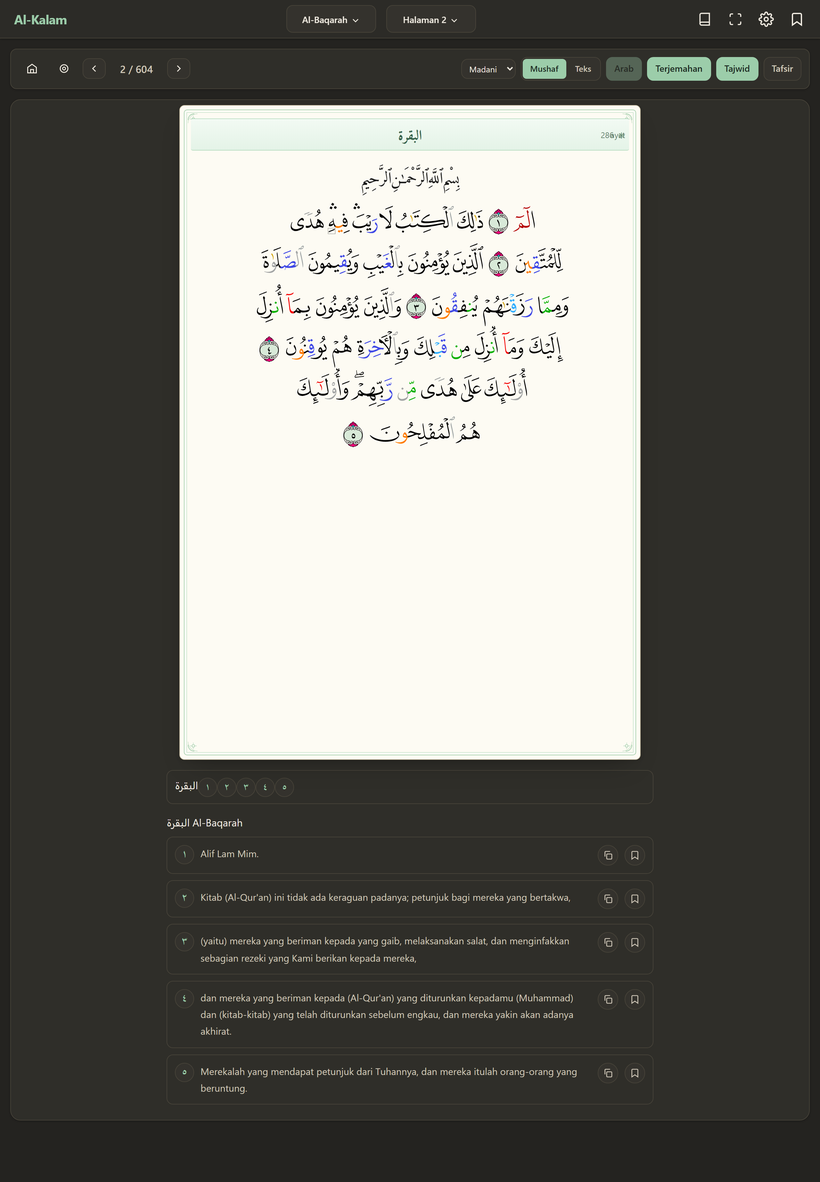
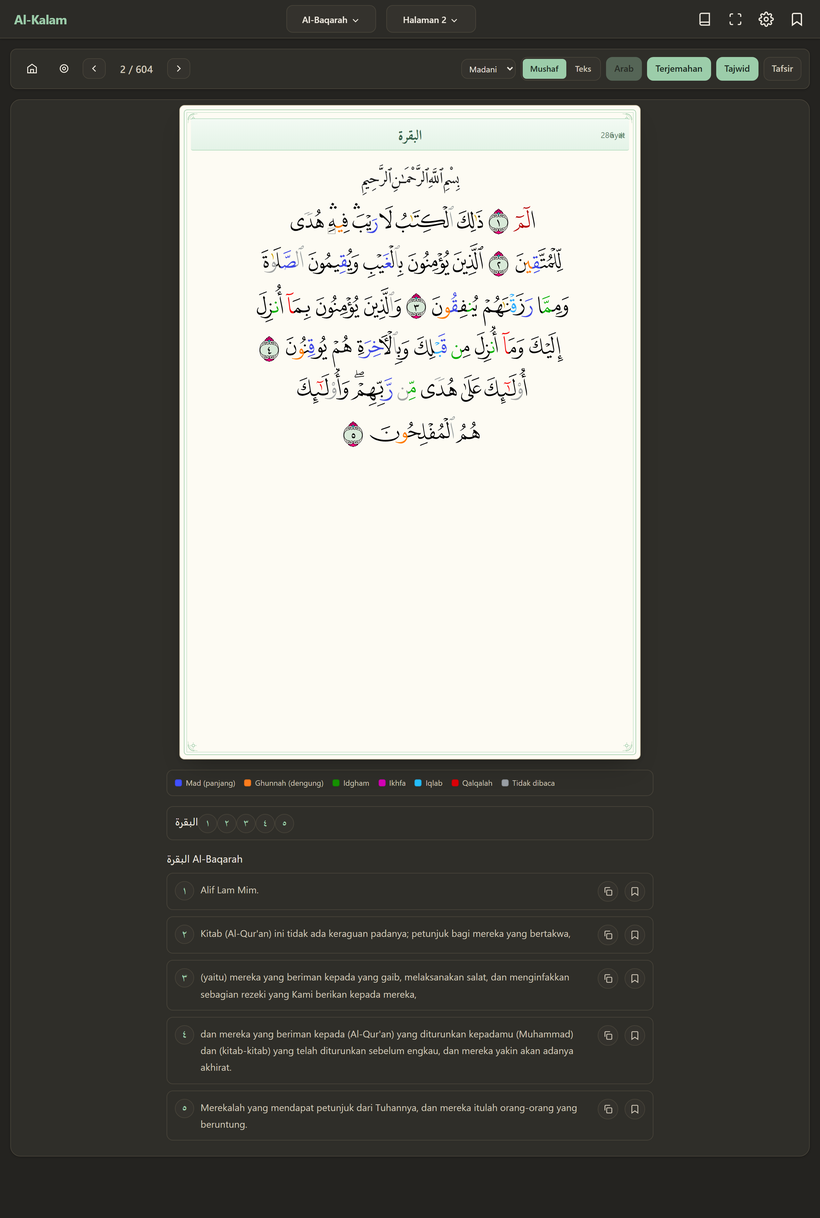
Legenda warna tajwid + tajwid IndoPak per kata
- Legenda 7 kelompok hukum (Mad, Ghunnah, Idgham, Ikhfa, Iqlab, Qalqalah,
  Tidak dibaca) dengan palet standar KFGQPC yang diambil dari warna font
  v4-tajweed; tampil di bawah halaman saat Tajwid aktif (mushaf maupun teks)
- IndoPak: karena tak ada font berwarna, aturan tajwid dipetakan per kata
  (dari tajwid.json.gz) lalu kata disorot dengan latar transparan; huruf
  tetap gelap agar terbaca
- Tombol Tajwid di IndoPak tidak lagi berpindah ke mode teks
- Dokumentasi: tangkapan layar tajwid Madani & IndoPak

diff --git a/js/app.js b/js/app.js
@@ -147,7 +147,7 @@
   }
   
   // ── Versi build (tanda bahwa browser memakai bundel terbaru) ────────
-  const BUILD = '2026-11-21-tajwid-page';
+  const BUILD = '2026-11-21-tajwid-legend';
 
   function showBuildTag() {
     const el = document.getElementById('buildTag');
@@ -332,6 +332,51 @@
     return state.bookmarks.has(verseKey);
   }
   
+  // ═══════════════════════════════════════════════════════════════
+  // Tajwid: grup warna (mengikuti standar KFGQPC / font v4-tajweed)
+  // ═══════════════════════════════════════════════════════════════
+  const TAJWID_GROUPS = [
+    ['mad', 'Mad (panjang)', ['madda_normal', 'madda_permissible', 'madda_obligatory', 'madda_necessary']],
+    ['ghunnah', 'Ghunnah (dengung)', ['ghunnah']],
+    ['idgham', 'Idgham', ['idgham_ghunnah', 'idgham_wo_ghunnah', 'idgham_shafawi', 'idgham_mutajanisayn', 'idgham_mutaqaribayn']],
+    ['ikhfa', 'Ikhfa', ['ikhafa', 'ikhafa_shafawi']],
+    ['iqlab', 'Iqlab', ['iqlab']],
+    ['qalqalah', 'Qalqalah', ['qalaqah']],
+    ['silent', 'Tidak dibaca', ['ham_wasl', 'slnt']],
+  ];
+
+  const RULE_TO_GROUP = (() => {
+    const map = {};
+    for (const [g, , rules] of TAJWID_GROUPS) for (const r of rules) map[r] = g;
+    return map;
+  })();
+
+  function tajwidLegendHtml() {
+    return TAJWID_GROUPS.map(([g, label]) =>
+      `<span class="tajwid-legend-item"><span class="tajwid-legend-dot ${g}"></span>${label}</span>`
+    ).join('');
+  }
+
+  const wordRuleCache = new Map();
+
+  /** Aturan tajwid dominan per kata sebuah ayat: hasil = array grup (indeks 1 = kata 1). */
+  async function wordRuleGroups(verseKey) {
+    if (wordRuleCache.has(verseKey)) return wordRuleCache.get(verseKey);
+    const all = await DataManager.load('tajwid');
+    const html = (all && all[verseKey]) || '';
+    if (!html) { wordRuleCache.set(verseKey, []); return []; }
+    // buang penanda nomor ayat, lalu pecah per kata
+    const clean = html.replace(/<span class=end>.*?<\/span>/g, '');
+    const words = clean.trim().split(/\s+/);
+    const out = [];
+    for (const w of words) {
+      const rule = (w.match(/class=\s*"?([a-z_]+)/i) || [, ''])[1];
+      out.push(RULE_TO_GROUP[rule] || null);
+    }
+    wordRuleCache.set(verseKey, out);
+    return out;
+  }
+
   // ═══════════════════════════════════════════════════════════════
   // Fitur: salin ayat, tajwid, sampul, layar penuh, tombol tengah
   // ═══════════════════════════════════════════════════════════════
@@ -807,6 +852,16 @@
     const versesData = await DataManager.load('verses');
     const tajweedPage = !!state.showTajwid && mushafKey() === 'madani';
     const fontFamily = await ensureMushafFont(page, tajweedPage);
+
+    // IndoPak tidak punya font berwarna → warnai per kata dengan data tajwid
+    const wordTintOn = !!state.showTajwid && mushafKey() === 'indopak';
+    const ruleByVerse = new Map();
+    if (wordTintOn) {
+      for (const v of pageData.verses) {
+        const vk = `${v.surah}:${v.ayah}`;
+        if (!ruleByVerse.has(vk)) ruleByVerse.set(vk, await wordRuleGroups(vk));
+      }
+    }
     prefetchPageFonts(page);
 
     const verses = pageData.verses
@@ -860,7 +915,13 @@
                 const ayahNo = vk.split(':')[1];
                 htm += `<span class="mw mw-end-badge" data-v="${vk}" data-w="${pos}">${toArabicDigits(Number(ayahNo))}</span>`;
               } else if (clean) {
-                htm += `<span class="mw" data-v="${vk}" data-w="${pos}">${clean}</span> `;
+                let tint = '';
+                if (wordTintOn) {
+                  const rules = ruleByVerse.get(vk) || [];
+                  const g = rules[pos - 1];
+                  if (g) tint = ` taj-${g}`;
+                }
+                htm += `<span class="mw${tint}" data-v="${vk}" data-w="${pos}">${clean}</span> `;
               }
             } else {
               htm += `<span class="mw${isEnd ? ' mw-end' : ''}" data-v="${vk}" data-w="${pos}">${glyph}</span> `;
@@ -882,6 +943,11 @@
             `<span class="page-corner bl"></span><span class="page-corner br"></span>` +
             `</div>`;
     html += `<div class="mushaf-page-lines"${style}>${htm}</div></div>`;
+
+    // legenda warna tajwid (tampil saat tajwid aktif)
+    if (state.showTajwid) {
+      html += `<div class="tajwid-legend" aria-label="Legenda warna tajwid">${tajwidLegendHtml()}</div>`;
+    }
 
     // strip nomor ayat
     html += `<div class="scan-bar">`;
@@ -1064,6 +1130,9 @@
       }
       
       html += `</div>`;
+      if (state.showTajwid) {
+        html += `<div class="tajwid-legend" aria-label="Legenda warna tajwid">${tajwidLegendHtml()}</div>`;
+      }
       els.mushafContainer.innerHTML = html;
       
       // Attach event listeners
@@ -1860,14 +1929,10 @@
       els.toggleTajwid.setAttribute('aria-pressed', state.showTajwid);
       saveSettings();
 
-      if (state.showTajwid) {
-        if (state.pageMode === 'scan' && mushafKey() === 'madani') {
-          showToast('Tajwid berwarna aktif di halaman mushaf');
-        } else if (state.pageMode === 'scan') {
-          // IndoPak belum punya font berwarna → pakai mode teks
-          setPageMode('text', false);
-          showToast('IndoPak belum punya font berwarna — beralih ke mode Teks');
-        }
+      if (state.showTajwid && state.pageMode === 'scan') {
+        showToast(mushafKey() === 'madani'
+          ? 'Tajwid berwarna aktif di halaman mushaf'
+          : 'Tajwid IndoPak: kata diwarnai menurut hukumnya');
       }
       renderPage(state.currentPage);
     });

diff --git a/css/style.css b/css/style.css
@@ -995,3 +995,52 @@ body.is-fullscreen .app-main { margin-top: 0; }
 [data-theme="dark"] .mode-btn.active,
 [data-theme="dark"] .chip.active,
 [data-theme="dark"] .view-nav-btn.primary { color: #1d2a22; }
+
+/* ═══════════════════════════════════════════════════════════════════════
+   Tajwid: legenda warna + pewarnaan kata (IndoPak)
+   Palet mengikuti standar KFGQPC (sama dengan font v4-tajweed)
+════════════════════════════════════════════════════════════════════════ */
+:root {
+  --taj-mad: #4050ff;
+  --taj-ghunnah: #ff7e1e;
+  --taj-idgham: #169200;
+  --taj-ikhfa: #d500b7;
+  --taj-iqlab: #26bffd;
+  --taj-qalqalah: #dd0008;
+  --taj-silent: #9aa0a6;
+  --taj-tafkhim: #7c5cff;
+}
+
+.tajwid-legend {
+  width: min(100%, 760px);
+  display: flex; flex-wrap: wrap; gap: 6px 14px;
+  padding: 10px 12px;
+  background: var(--bg-card);
+  border: 1px solid var(--border-color);
+  border-radius: var(--radius-md);
+  font-size: .75rem;
+  color: var(--text-secondary);
+}
+.tajwid-legend[hidden] { display: none; }
+.tajwid-legend-item { display: inline-flex; align-items: center; gap: 6px; white-space: nowrap; }
+.tajwid-legend-dot {
+  width: 11px; height: 11px; border-radius: 3px; flex: 0 0 auto;
+  box-shadow: inset 0 0 0 1px rgba(0,0,0,.12);
+}
+.tajwid-legend-dot.mad { background: var(--taj-mad); }
+.tajwid-legend-dot.ghunnah { background: var(--taj-ghunnah); }
+.tajwid-legend-dot.idgham { background: var(--taj-idgham); }
+.tajwid-legend-dot.ikhfa { background: var(--taj-ikhfa); }
+.tajwid-legend-dot.iqlab { background: var(--taj-iqlab); }
+.tajwid-legend-dot.qalqalah { background: var(--taj-qalqalah); }
+.tajwid-legend-dot.silent { background: var(--taj-silent); }
+
+/* kata bertajwid pada halaman (dipakai IndoPak yang tak punya font berwarna) */
+/* IndoPak: hanya sorotan latar, huruf tetap hitam agar mudah dibaca */
+.mw.taj-mad { background: rgba(64, 80, 255, .18); }
+.mw.taj-ghunnah { background: rgba(255, 126, 30, .24); }
+.mw.taj-idgham { background: rgba(22, 146, 0, .20); }
+.mw.taj-ikhfa { background: rgba(213, 0, 183, .16); }
+.mw.taj-iqlab { background: rgba(38, 191, 253, .22); }
+.mw.taj-qalqalah { background: rgba(221, 0, 8, .16); }
+.mw.taj-silent { background: rgba(154, 160, 166, .20); }

diff --git a/sw.js b/sw.js
@@ -2,9 +2,9 @@
  * Al-Kalam Digital — Service Worker
  * Offline-first untuk halaman mushaf & data JSON
  */
-const CACHE_NAME = 'alkalam-v12';
+const CACHE_NAME = 'alkalam-v13';
 const DATA_CACHE = 'alkalam-data-v3';
-const PAGE_CACHE = 'alkalam-pages-v12';
+const PAGE_CACHE = 'alkalam-pages-v13';
 const IMG_CACHE = 'alkalam-page-images-v2';
 
 // File yang di-cache saat install (app shell)

diff --git a/README.md b/README.md
@@ -24,9 +24,13 @@ browser dari data layout + font (Madani QCF per halaman, atau IndoPak nastaleeq)
 |---|---|
 | ![](docs/layar-sampul.png) | ![](docs/layar-tajwid.png) |
 
-| Tajwid berwarna di halaman | Tema gelap (arang hangat + sage) |
+| Tajwid Madani (font berwarna) | Tajwid IndoPak (sorotan per kata) |
 |---|---|
-| ![](docs/layar-tajwid-halaman.png) | ![](docs/layar-gelap.png) |
+| ![](docs/layar-tajwid-halaman.png) | ![](docs/layar-tajwid-indopak.png) |
+
+| Tema gelap (arang hangat + sage) |
+|---|
+| ![](docs/layar-gelap.png) |
 
 | Mode teks + tajwid | Cari ayat |
 |---|---|
